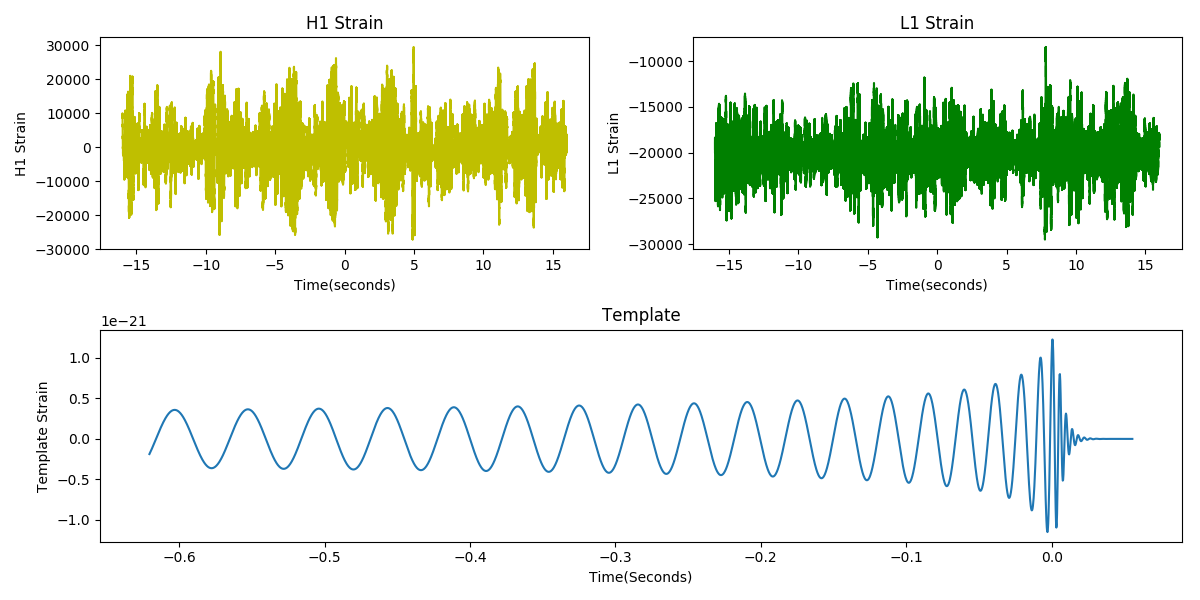
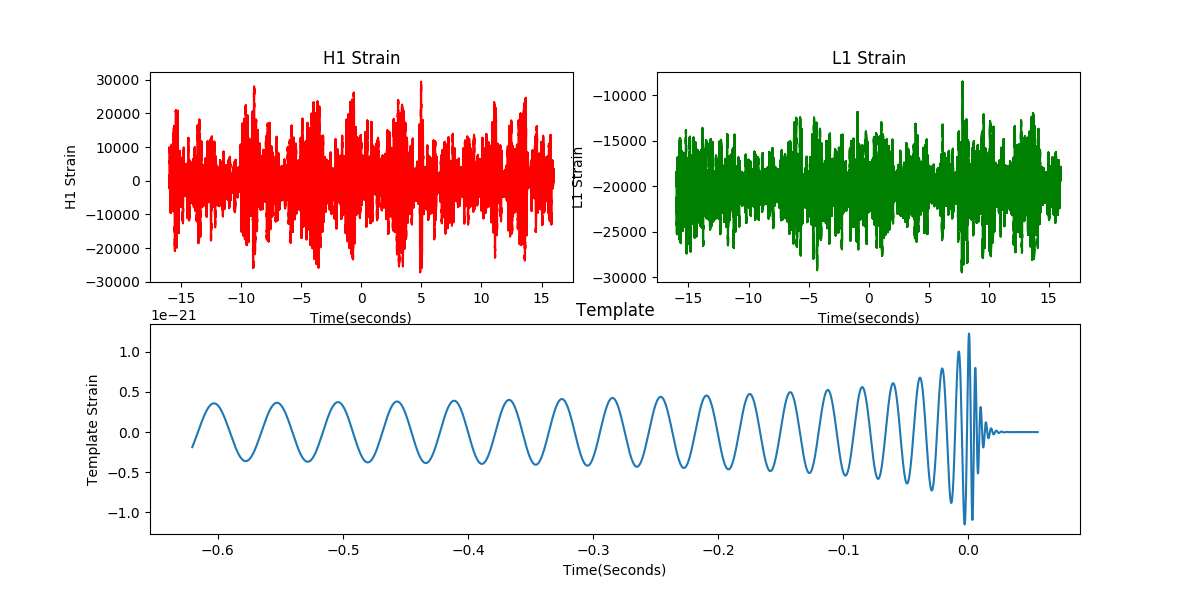
20170512_2121

diff --git a/mooc_ex/DataVisual/d_v_test.py b/mooc_ex/DataVisual/d_v_test.py
@@ -3,6 +3,7 @@
 import matplotlib.pyplot as plt
 import numpy as np
 import matplotlib
+import pandas as pd
 
 matplotlib.rcParams['font.family']='SimHei'
 matplotlib.rcParams['font.size']=10
@@ -10,50 +11,6 @@ matplotlib.rcParams['font.size']=10
 
 def f(t):
     return np.exp(-t)*np.cos(2*np.pi*t)
-
-def test1():
-    a=np.arange(0.0,5.0,0.02)
-    plt.subplot(211)
-    plt.plot(a,f(a))
-
-    plt.plot(a,np.cos(2*np.pi*a),'r--')
-    plt.show()
-
-def test2():
-    a=np.arange(10)
-    plt.plot(a,a*1.5,'o--',a,a*2.5,'v-.',a,a*3.5,'1:',a,a*15)
-    plt.ylabel('纵轴')
-    plt.text(5,40,'哈哈')
-    plt.title('一个例子 $y=cos(2\pi x)$')
-    plt.show()
-
-def test3(): #annotate
-    a=np.arange(0.0,5.0,0.02)
-    plt.plot(a,np.cos(2*np.pi*a),'r--')
-
-    plt.xlabel('时间')
-    plt.ylabel('振幅')
-    plt.annotate(r'$mu=100$',xy=(2,1),xytext=(3,1.5),arrowprops=dict(facecolor='black',shrink=0.1,width=2))
-    plt.axis([-1,6,-2,2])
-    plt.grid(True)
-    plt.show()
-
-def test4(): # subplot2grid
-    plt.subplot2grid((3,3),(1,2),rowspan=2)
-    a = np.arange(0.0, 5.0, 0.02)
-    plt.plot(a, np.cos(2 * np.pi * a), 'r--')
-    plt.show()
-
-def test5(): #gridspec
-    import matplotlib.gridspec as gridspec
-    gs=gridspec.GridSpec(3,3)
-
-    # ax1=plt.subplot(gs[0,:])
-    ax2=plt.subplot(gs[1,:2])
-
-    a = np.arange(0.0, 5.0, 0.02)
-    plt.plot(a, np.cos(2 * np.pi * a), 'r--')
-    plt.show()
 
 def plot_pie():
     labels='Frogs','Hogs','Dogs','Logs'
@@ -95,7 +52,6 @@ def plot_polar():
 
     plt.show()
 
-
 def multi_figure():
     # np.random.seed(0)
     # x=np.random.rand(0,2*np.pi,100)
@@ -122,5 +78,9 @@ def shape_test():
     print(a)
     print(a.shape[0])
 
+def pd_test():
+    d=pd.Series({'a':9,'b':8,'c':7})
+    print(d)
 
-shape_test()
+
+pd_test()

diff --git a/mooc_ex/DataVisual/引力波/stress wave.py b/mooc_ex/DataVisual/引力波/stress wave.py
@@ -17,7 +17,7 @@ ltime=np.arange(-ltime_len/2,ltime_len/2,ltime_interval)
 fig=plt.figure(figsize=(12,6))
 
 plth=fig.add_subplot(221)
-plth.plot(htime,hstrain,'y')
+plth.plot(htime,hstrain,'r')
 plth.set_xlabel('Time(seconds)')
 plth.set_ylabel('H1 Strain')
 plth.set_title('H1 Strain')
